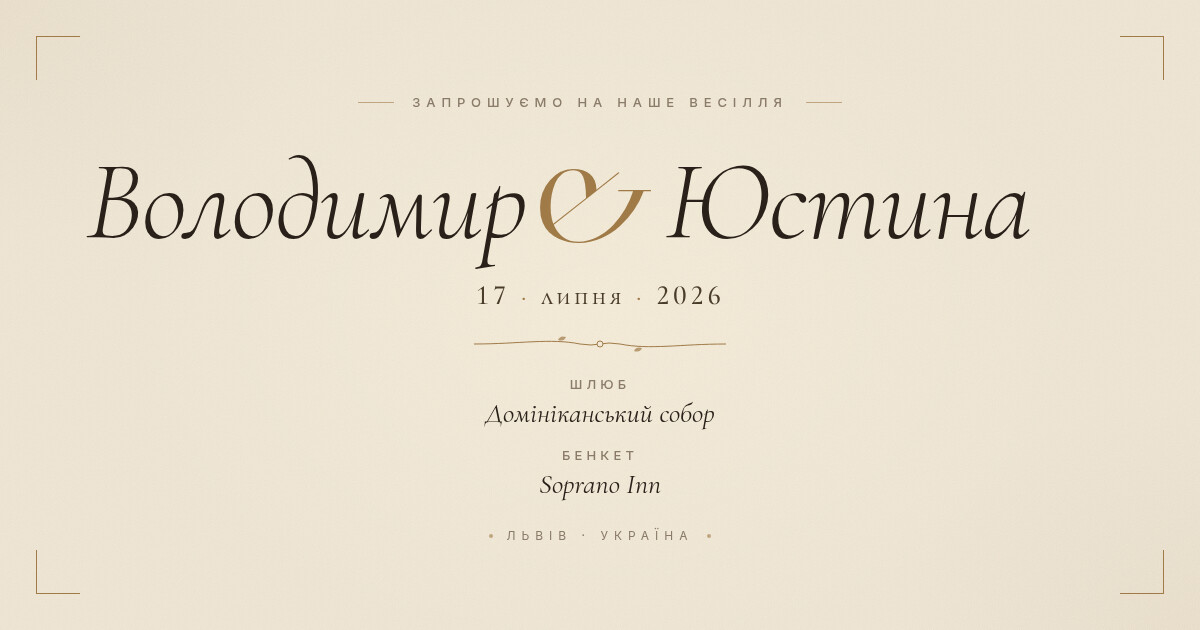
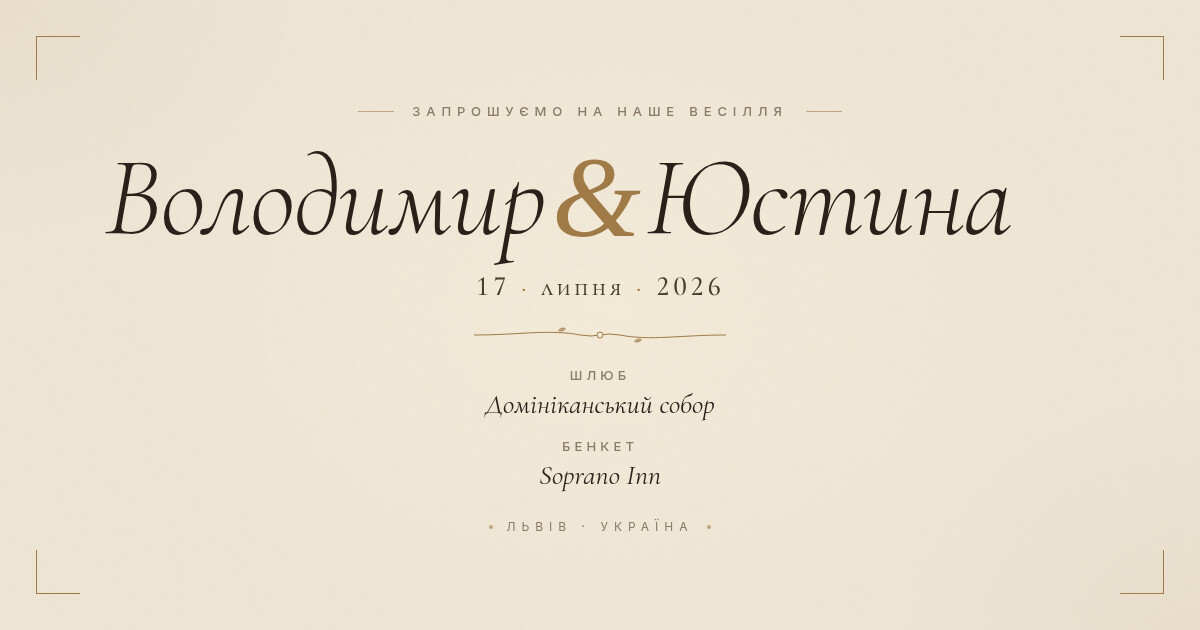
v-y: OG ampersand uses Times New Roman italic (site monogram glyph) instead of Italiana

diff --git a/v-y/og-card.html b/v-y/og-card.html
@@ -128,13 +128,17 @@
       white-space: nowrap;
       transform: translateX(-42px);
     }
+    /* Ampersand matches the site monogram (--font-ampersand): classic
+       looped Times New Roman italic «&», not the Italiana glyph (which
+       reads like a reversed «е»). Liberation Serif is the metric-compatible
+       fallback on the render box. */
     .names .amp {
-      font-family: 'Italiana', 'Times New Roman', serif;
-      font-style: normal;
+      font-family: 'Times New Roman', Times, serif;
+      font-style: italic;
       color: #a07b48;
-      font-size: 1.18em;
-      padding: 0 0.08em;
-      vertical-align: -0.04em;
+      font-size: 1.02em;
+      padding: 0 0.06em;
+      vertical-align: -0.02em;
     }
 
     /* —— Date pill ——————————————————————————— */
